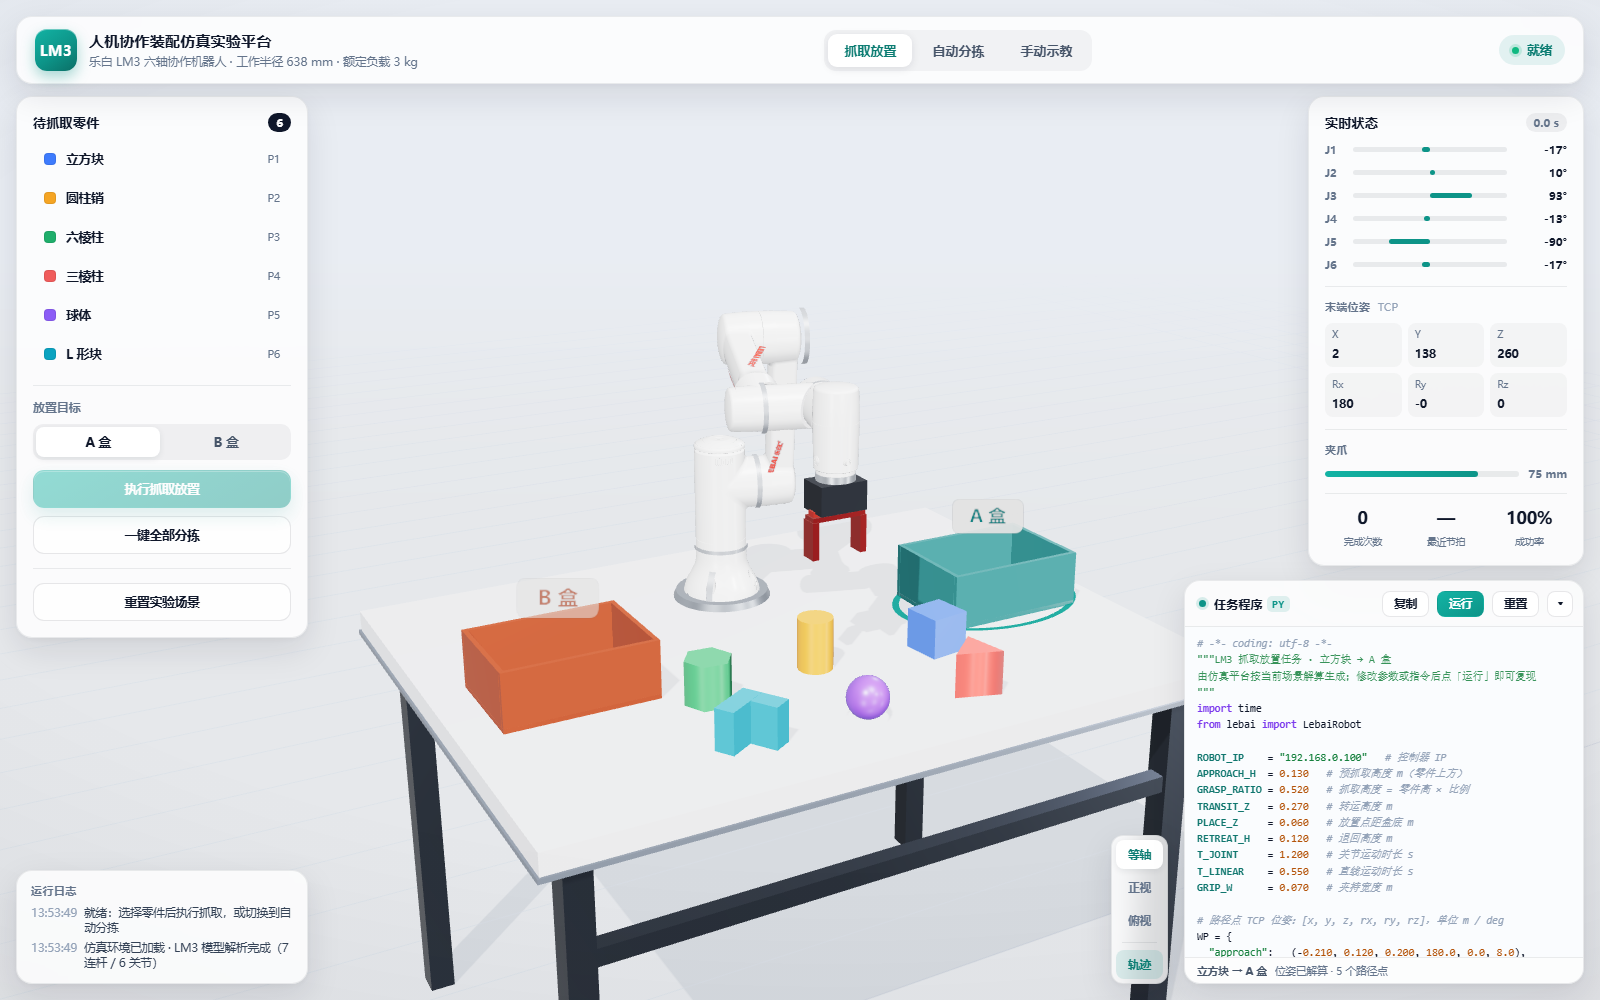
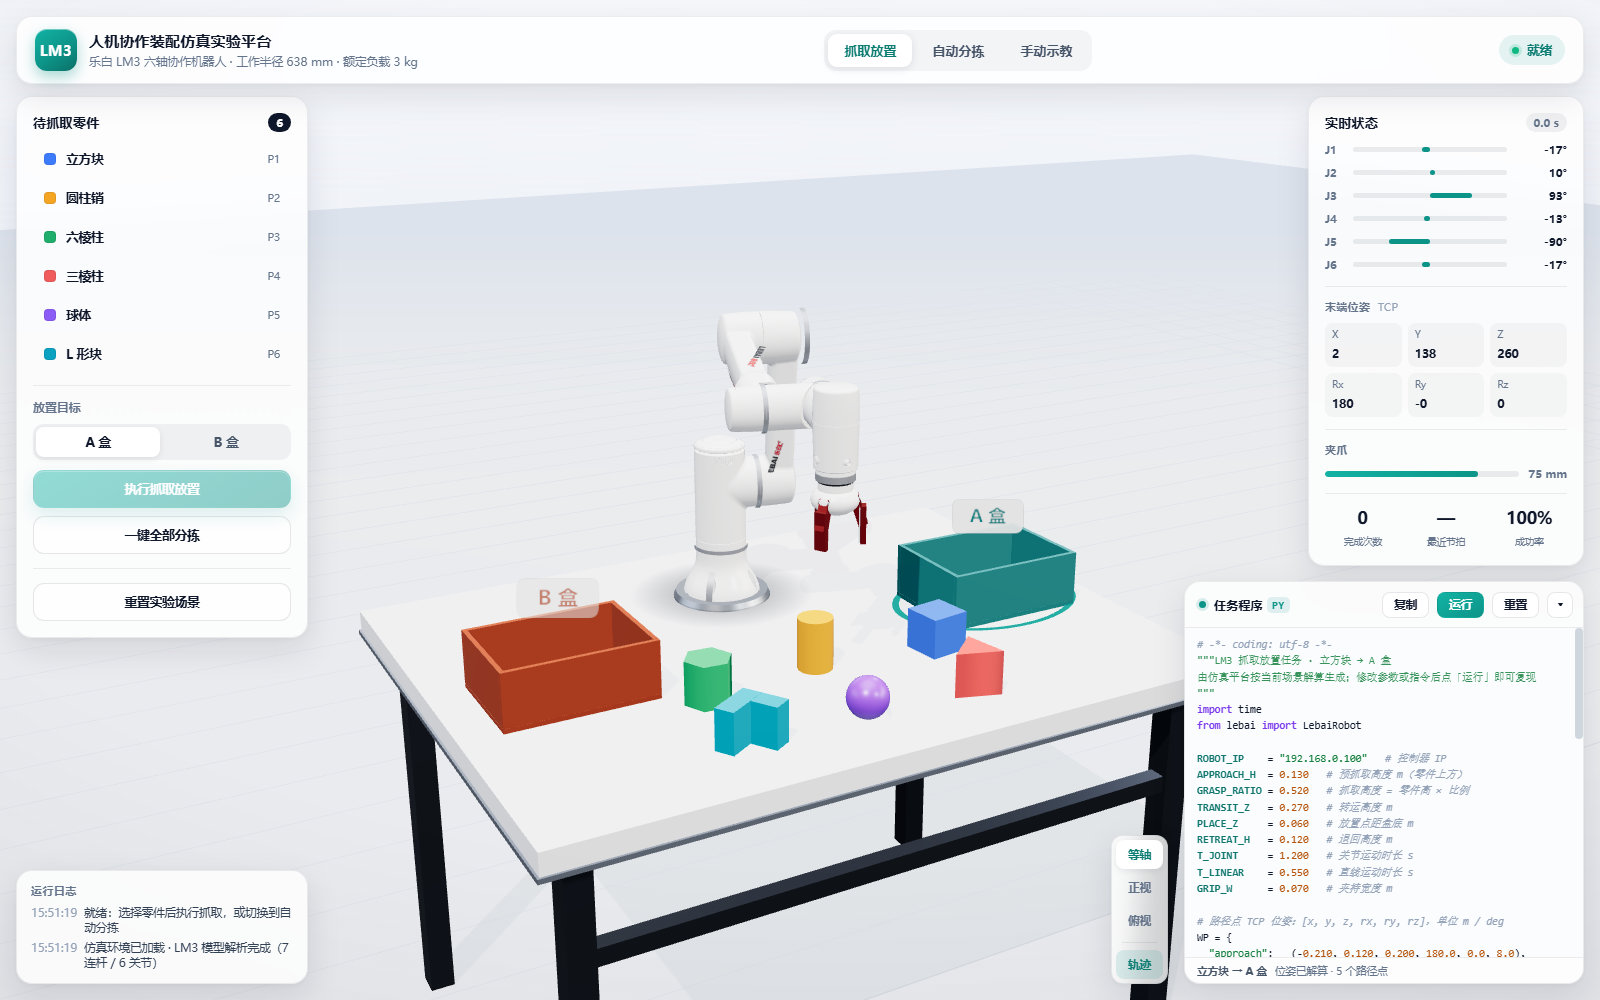
渲染升级：贴合官方 LM3 渲染图
- 夹爪复刻 LMG-90：白色圆顶本体 + 三指 120° 红色联动臂（银色铰链销、灰色夹垫、反向旋转自定心）
- 壳体改缎面白（低清漆哑光），关节环带浅银灰，对齐官网渲染质感
- 新增 js/studio.js 产品影棚 PMREM 环境：顶部大柔光 + 左右长条柔光箱
- 场景背景改垂直渐变，灯光软化，基座新增软接触阴影与呼吸状态灯环
- LEBAI 标识改深灰字 + 红色图形字（对齐官方）
- 更新截图 overview.png / gripper.png，README 同步

diff --git a/js/robot.js b/js/robot.js
@@ -7,19 +7,23 @@ const easeInOut = (t) => (t < 0.5 ? 4 * t * t * t : 1 - Math.pow(-2 * t + 2, 3) 
 const nextFrame = () => new Promise((r) => requestAnimationFrame(r));
 
 const MAT = {
-  // 亮面注塑白（参考 LEBAI LM3 实机：高光白 + 清漆）
+  // 缎面注塑白（对齐 LEBAI 官方渲染：柔和哑光 + 轻微清漆）
   shell: new THREE.MeshPhysicalMaterial({
-    color: 0xfbfcfe, roughness: 0.26, metalness: 0.02,
-    clearcoat: 0.55, clearcoatRoughness: 0.18, envMapIntensity: 0.9,
+    color: 0xfbfcfe, roughness: 0.3, metalness: 0.0,
+    clearcoat: 0.35, clearcoatRoughness: 0.25, envMapIntensity: 1.0,
   }),
   base: null, // 与壳体同色，见下方赋值
-  // 关节分隔环带：浅灰
-  band: new THREE.MeshPhysicalMaterial({ color: 0xb2b8c1, roughness: 0.36, metalness: 0.35, clearcoat: 0.2 }),
-  flange: new THREE.MeshPhysicalMaterial({ color: 0xc7ced7, roughness: 0.28, metalness: 0.65 }),
+  // 关节分隔环带：浅银灰（官方图中的灰色关节环）
+  band: new THREE.MeshPhysicalMaterial({ color: 0xb6bcc6, roughness: 0.38, metalness: 0.5, clearcoat: 0.25 }),
+  flange: new THREE.MeshPhysicalMaterial({ color: 0xcdd3db, roughness: 0.26, metalness: 0.6, clearcoat: 0.25 }),
   dark: new THREE.MeshPhysicalMaterial({ color: 0x2a2f37, roughness: 0.4, metalness: 0.4 }),
-  // 夹爪指：乐白夹爪的红色阳极氧化铝
-  finger: new THREE.MeshPhysicalMaterial({ color: 0xa8342c, roughness: 0.28, metalness: 0.72, clearcoat: 0.2 }),
-  accent: new THREE.MeshPhysicalMaterial({ color: 0xc0392b, roughness: 0.32, metalness: 0.5 }),
+  // 夹爪联动臂：乐白夹爪的红色阳极氧化铝
+  finger: new THREE.MeshPhysicalMaterial({ color: 0xb5342a, roughness: 0.26, metalness: 0.7, clearcoat: 0.35 }),
+  accent: new THREE.MeshPhysicalMaterial({ color: 0xc0392b, roughness: 0.3, metalness: 0.5 }),
+  // 基座状态 LED 环（乐白「灯光交互」元素）
+  led: new THREE.MeshStandardMaterial({ color: 0x0b3035, emissive: 0x2ad3c8, emissiveIntensity: 1.1, roughness: 0.35, metalness: 0.1 }),
+  // 夹爪垫：浅灰阻尼面
+  pad: new THREE.MeshStandardMaterial({ color: 0xdadfe6, roughness: 0.55, metalness: 0.05 }),
 };
 MAT.base = MAT.shell;
 
@@ -114,6 +118,11 @@ export class Robot {
     ring.castShadow = true;
     this.links[0].add(ring);
 
+    // 基座底部状态灯环（呼吸灯效）
+    const led = new THREE.Mesh(new THREE.CylinderGeometry(0.0726, 0.0726, 0.0022, 64, 1, true), MAT.led);
+    led.position.set(0, 0, 0.0016);
+    this.links[0].add(led);
+
     // LEBAI 标识（按工作位摆放，便于选择朝向镜头的一侧）
     this.setJoints(POSE_READY.map((d) => (d * Math.PI) / 180));
     const logoMat = this.makeLogoMaterial();
@@ -126,11 +135,14 @@ export class Robot {
     c.width = 800; c.height = 180;
     const g = c.getContext('2d');
     g.clearRect(0, 0, c.width, c.height);
-    const red = '#cf2318';
-    g.fillStyle = red;
+    // 官方标识：深灰 LEBAI 字 + 红色图形字
+    const red = '#d32027';
+    const ink = '#2b3038';
     g.textBaseline = 'middle';
+    g.fillStyle = ink;
     g.font = '900 132px "Arial Black", Arial, sans-serif';
     g.fillText('LEBAI', 6, 96);
+    g.fillStyle = red;
     g.font = '800 104px "PingFang SC", "Microsoft YaHei", sans-serif';
     g.fillText('乐白', 468, 100);
     // 品牌环形标记
@@ -230,22 +242,52 @@ export class Robot {
       g.add(m);
       return m;
     };
-    // 法连接盘
+    // 法兰连接盘
     add(new THREE.CylinderGeometry(0.032, 0.032, 0.011, 40), MAT.flange, [0, 0, 0.0055], [Math.PI / 2, 0, 0]);
-    // 夹爪本体（LMG-90 造型）
-    add(new THREE.BoxGeometry(0.082, 0.056, 0.048), MAT.dark, [0, 0, 0.036]);
-    add(new THREE.BoxGeometry(0.088, 0.016, 0.014), MAT.accent, [0, 0, 0.064]);
-    // 导轨
-    add(new THREE.BoxGeometry(0.094, 0.026, 0.008), MAT.finger, [0, 0, 0.070]);
-    // 两指
+    // 分件线（深色金属接缝）
+    add(new THREE.CylinderGeometry(0.0285, 0.0285, 0.004, 32), MAT.dark, [0, 0, 0.0125], [Math.PI / 2, 0, 0]);
+    // 白色立柱（官方图中的白色圆柱连接座）
+    add(new THREE.CylinderGeometry(0.028, 0.028, 0.022, 32), MAT.shell, [0, 0, 0.025], [Math.PI / 2, 0, 0]);
+    // 白色圆顶本体
+    const dome = add(new THREE.SphereGeometry(0.039, 40, 24), MAT.shell, [0, 0, 0.044]);
+    dome.scale.set(1, 1, 0.62);
+
+    // LMG-90 三指自定心夹爪：红色联动臂 + 灰色夹垫（对齐官方渲染图）
+    const PIVOT_R = 0.03, PIVOT_Z = 0.042, ARM_L = 0.05;
+    this.armParam = { r: PIVOT_R, z: PIVOT_Z, l: ARM_L };
     this.fingers = [];
-    for (const s of [-1, 1]) {
-      const f = new THREE.Mesh(new THREE.BoxGeometry(0.011, 0.030, 0.062), MAT.finger);
-      f.castShadow = true;
-      f.receiveShadow = false;
-      f.position.set(s * 0.045, 0, 0.104);
-      g.add(f);
-      this.fingers.push({ mesh: f, side: s });
+    for (let i = 0; i < 3; i++) {
+      const th = Math.PI / 2 + (i * Math.PI * 2) / 3; // 3 × 120° 均布
+      const root = new THREE.Group();
+      root.position.set(Math.cos(th) * PIVOT_R, Math.sin(th) * PIVOT_R, PIVOT_Z);
+      root.rotation.z = th;
+      g.add(root);
+
+      // 联动臂绕本地 y 轴（切向）摆动
+      const pivot = new THREE.Group();
+      root.add(pivot);
+
+      const arm = new THREE.Mesh(new THREE.BoxGeometry(ARM_L, 0.016, 0.015), MAT.finger);
+      arm.position.set(ARM_L / 2 - 0.005, 0, 0);
+      arm.castShadow = true;
+      pivot.add(arm);
+
+      // 铰链销（银色）
+      const pin = new THREE.Mesh(new THREE.CylinderGeometry(0.008, 0.008, 0.02, 20), MAT.flange);
+      pivot.add(pin);
+
+      // 夹垫组件：随臂展开后反向补偿，始终保持竖直
+      const pad = new THREE.Group();
+      pad.position.set(ARM_L - 0.005, 0, 0);
+      pivot.add(pad);
+      const bar = new THREE.Mesh(new THREE.BoxGeometry(0.009, 0.02, 0.062), MAT.finger);
+      bar.castShadow = true;
+      pad.add(bar);
+      const face = new THREE.Mesh(new THREE.BoxGeometry(0.002, 0.018, 0.058), MAT.pad);
+      face.position.set(-0.0055, 0, 0);
+      pad.add(face);
+
+      this.fingers.push({ pivot, pad });
     }
   }
 
@@ -259,8 +301,12 @@ export class Robot {
 
   applyGripper() {
     if (!this.fingers) return;
-    for (const { mesh, side } of this.fingers) {
-      mesh.position.x = side * (this.gripperOpen / 2 + 0.0055);
+    // 联动臂摆角 γ：使夹垫内工作面半径 = 开合的一半（自定心）
+    const half = this.gripperOpen / 2;
+    const g = Math.acos(THREE.MathUtils.clamp((half - 0.0235) / 0.045, -1, 1));
+    for (const f of this.fingers) {
+      f.pivot.rotation.y = -g; // 臂向外抬起
+      f.pad.rotation.y = g;   // 反向补偿，夹垫保持竖直
     }
   }
 

diff --git a/js/scene.js b/js/scene.js
@@ -191,14 +191,51 @@ function buildObject(cfg) {
 }
 
 /* ---------------- 场景搭建 ---------------- */
-export function buildWorld(scene) {
-  scene.background = new THREE.Color(0xe9edf3);
-  scene.fog = new THREE.Fog(0xe9edf3, 5, 12);
 
-  const hemi = new THREE.HemisphereLight(0xffffff, 0xd3dae5, 0.8);
+/** 柔和影棚背景：垂直浅色渐变（近似官方渲染棚底色） */
+function gradientBackground() {
+  const c = document.createElement('canvas');
+  c.width = 16; c.height = 256;
+  const ctx = c.getContext('2d');
+  const grad = ctx.createLinearGradient(0, 0, 0, 256);
+  grad.addColorStop(0.0, '#f5f7fb');
+  grad.addColorStop(0.5, '#e9edf4');
+  grad.addColorStop(1.0, '#d8dee9');
+  ctx.fillStyle = grad;
+  ctx.fillRect(0, 0, 16, 256);
+  const tex = new THREE.CanvasTexture(c);
+  tex.colorSpace = THREE.SRGBColorSpace;
+  return tex;
+}
+
+/** 机器人底座下的软接触阴影 */
+function contactShadow(radius) {
+  const c = document.createElement('canvas');
+  c.width = 128; c.height = 128;
+  const ctx = c.getContext('2d');
+  const g = ctx.createRadialGradient(64, 64, 0, 64, 64, 64);
+  g.addColorStop(0, 'rgba(20, 28, 42, 0.34)');
+  g.addColorStop(0.55, 'rgba(20, 28, 42, 0.14)');
+  g.addColorStop(1, 'rgba(20, 28, 42, 0)');
+  ctx.fillStyle = g;
+  ctx.fillRect(0, 0, 128, 128);
+  const tex = new THREE.CanvasTexture(c);
+  tex.colorSpace = THREE.SRGBColorSpace;
+  const mesh = new THREE.Mesh(
+    new THREE.PlaneGeometry(radius * 2, radius * 2),
+    new THREE.MeshBasicMaterial({ map: tex, transparent: true, depthWrite: false })
+  );
+  return mesh;
+}
+
+export function buildWorld(scene) {
+  scene.background = gradientBackground();
+  scene.fog = new THREE.Fog(0xdde3ec, 6, 13);
+
+  const hemi = new THREE.HemisphereLight(0xffffff, 0xd3dae5, 0.5);
   scene.add(hemi);
 
-  const key = new THREE.DirectionalLight(0xfffdf8, 2.9);
+  const key = new THREE.DirectionalLight(0xfff6ec, 2.35);
   key.position.set(1.7, 1.5, 2.5);
   key.castShadow = true;
   key.shadow.mapSize.set(2048, 2048);
@@ -212,11 +249,11 @@ export function buildWorld(scene) {
   key.shadow.normalBias = 0.022;
   scene.add(key);
 
-  const fill = new THREE.DirectionalLight(0xdfe9ff, 0.55);
+  const fill = new THREE.DirectionalLight(0xdfe9ff, 0.4);
   fill.position.set(-2.2, -1.8, 1.4);
   scene.add(fill);
 
-  const rim = new THREE.DirectionalLight(0xffffff, 0.75);
+  const rim = new THREE.DirectionalLight(0xffffff, 0.95);
   rim.position.set(-1.0, 2.4, 1.6);
   scene.add(rim);
 
@@ -269,6 +306,12 @@ export function buildWorld(scene) {
   plate.position.set(0, -0.28, 0.006);
   plate.receiveShadow = true;
   scene.add(plate);
+
+  // 底座软接触阴影（贴地渐变）
+  const soft = contactShadow(0.17);
+  soft.position.set(0, -0.28, 0.0022);
+  soft.renderOrder = 2;
+  scene.add(soft);
 
   return { table, bins, objects, plate, key, targetRing };
 }

diff --git a/js/studio.js b/js/studio.js
@@ -1,0 +1,57 @@
+import * as THREE from 'three';
+
+/**
+ * 产品影棚环境（对齐 LEBAI 官方 LM3 渲染图的柔光棚）：
+ * - 浅灰墙面房间 + 中央点光源，形成柔和的墙面临近渐变
+ * - 顶部巨型柔光板（主光，世界 +Z 方向）
+ * - 左右两条长条柔光箱，在缎面白壳的圆柱表面上拉出细长高光
+ * - 地板微弱反光板，补足底部暗部
+ * 经 PMREMGenerator.fromScene() 采样后用作 scene.environment。
+ */
+export function makeStudioEnvScene() {
+  const scene = new THREE.Scene();
+
+  // 墙面：BackSide 盒子，由点光源照亮产生渐变
+  const roomGeo = new THREE.BoxGeometry();
+  roomGeo.deleteAttribute('uv');
+  const room = new THREE.Mesh(
+    roomGeo,
+    new THREE.MeshStandardMaterial({ side: THREE.BackSide, color: 0x9aa0aa, roughness: 1, metalness: 0 })
+  );
+  room.scale.set(24, 24, 24);
+  scene.add(room);
+
+  const lamp = new THREE.PointLight(0xffffff, 220, 60, 2);
+  lamp.position.set(0, 0, 5);
+  scene.add(lamp);
+
+  // 柔光箱：双面自发光平面，朝向原点
+  const softbox = (intensity, w, h, x, y, z, hex = 0xffffff) => {
+    const mat = new THREE.MeshBasicMaterial({ side: THREE.DoubleSide });
+    mat.color.setHex(hex).multiplyScalar(intensity);
+    const m = new THREE.Mesh(new THREE.PlaneGeometry(w, h), mat);
+    m.position.set(x, y, z);
+    m.lookAt(0, 0, 0);
+    scene.add(m);
+  };
+
+  // 顶部大面积柔光（世界 +Z = 上方）
+  softbox(3.6, 11, 11, 0, 0, 11);
+  // 左前长条柔光箱（略暖，主高光条）
+  softbox(16, 1.6, 9, -9.5, 5.5, 4, 0xfff4e6);
+  // 右侧长条柔光箱（冷色，副高光条）
+  softbox(7, 1.4, 9, 9.5, -3.5, 4, 0xdcebff);
+  // 背景弱光（轮廓过渡）
+  softbox(2.5, 7, 3, 0, -10.5, 5);
+  // 地板反光板（提升底面亮度）
+  softbox(0.9, 11, 11, 0, 0, -11, 0xe8ecef);
+
+  scene.dispose = () => {
+    const resources = new Set();
+    scene.traverse((o) => {
+      if (o.isMesh) { resources.add(o.geometry); resources.add(o.material); }
+    });
+    resources.forEach((r) => r.dispose());
+  };
+  return scene;
+}

diff --git a/js/app.js b/js/app.js
@@ -1,6 +1,6 @@
 import * as THREE from 'three';
 import { OrbitControls } from 'three/addons/controls/OrbitControls.js';
-import { RoomEnvironment } from 'three/addons/environments/RoomEnvironment.js';
+import { makeStudioEnvScene } from './studio.js';
 import { Robot } from './robot.js';
 import { buildWorld } from './scene.js';
 import { BINS, OBJECTS, POSE_READY } from './config.js';
@@ -59,8 +59,11 @@ class App {
     this.controls.update();
 
     const pmrem = new THREE.PMREMGenerator(this.renderer);
-    this.scene.environment = pmrem.fromScene(new RoomEnvironment(), 0.04).texture;
-    this.scene.environmentIntensity = 0.58;
+    const envScene = makeStudioEnvScene();
+    this.scene.environment = pmrem.fromScene(envScene, 0.04).texture;
+    if (envScene.dispose) envScene.dispose();
+    pmrem.dispose();
+    this.scene.environmentIntensity = 0.85;
 
     this.world = buildWorld(this.scene);
     this.viz = new PathViz(this.scene);

diff --git a/README.md b/README.md
@@ -44,8 +44,8 @@ python -m http.server 8123
 | 元素 | 说明 |
 | --- | --- |
 | 操作桌面 | 1220 × 940 mm 工作台，台面为安装基准面（z = 0），带桌腿与横梁 |
-| LM3 机器人 | 来自 `乐白机器人三维模型-LM3.stp`，7 个连杆（ARM0–ARM6）、6 个旋转关节，高约 895 mm；涂装参考官网实机：亮面白机身 + 关节浅灰环带 + 红色 LEBAI 标识 + 红色阳极氧化夹爪 |
-| 末端夹爪 | 参考 LMG-90 造型的两指平行夹爪，开口 14–95 mm |
+| LM3 机器人 | 来自 `乐白机器人三维模型-LM3.stp`，7 个连杆（ARM0–ARM6）、6 个旋转关节，高约 895 mm；涂装对齐官网渲染图：缎面白机身 + 关节浅银灰环带 + 深灰 LEBAI 标识（红色图形字）+ 基座呼吸状态灯环 |
+| 末端夹爪 | 复刻 LMG-90 造型：白色圆顶本体 + 三指 120° 红色联动臂（银色铰链销、灰色夹垫自定心），开口 14–95 mm |
 | 待抓零件 | 立方块、圆柱销、六棱柱、三棱柱、球体、L 形块，共 6 件，尺寸 55–90 mm，分两排布置在机器人正前方 |
 | 料盒 | A 盒（青）、B 盒（陶土红），260 × 190 × 100 mm，每个盒子 2×2 放置位 |
 
@@ -99,8 +99,9 @@ python -m http.server 8123
 │  ├─ kinematics.js        LM3 运动学（FK / Jacobian / DLS-IK）
 │  ├─ planner.js           路径点解算、程序生成与解析（可编辑 DSL）
 │  ├─ pathviz.js           路径点标记、规划连线、TCP 轨迹
-│  ├─ robot.js             模型加载、夹爪、关节插补与直线运动
+│  ├─ robot.js             模型加载、LMG-90 三指夹爪、关节插补与直线运动
 │  ├─ scene.js             桌面、料盒、零件、灯光与环境
+│  ├─ studio.js            产品影棚环境（PMREM 柔光棚，近似官方渲染）
 │  └─ app.js               交互逻辑、任务编排、界面刷新
 ├─ assets/lm3.glb          7 连杆网格（来自 LM3机器人运动仿真 项目，约 1.6 MB）
 ├─ vendor/three/           Three.js r169（本地化，离线可用）
